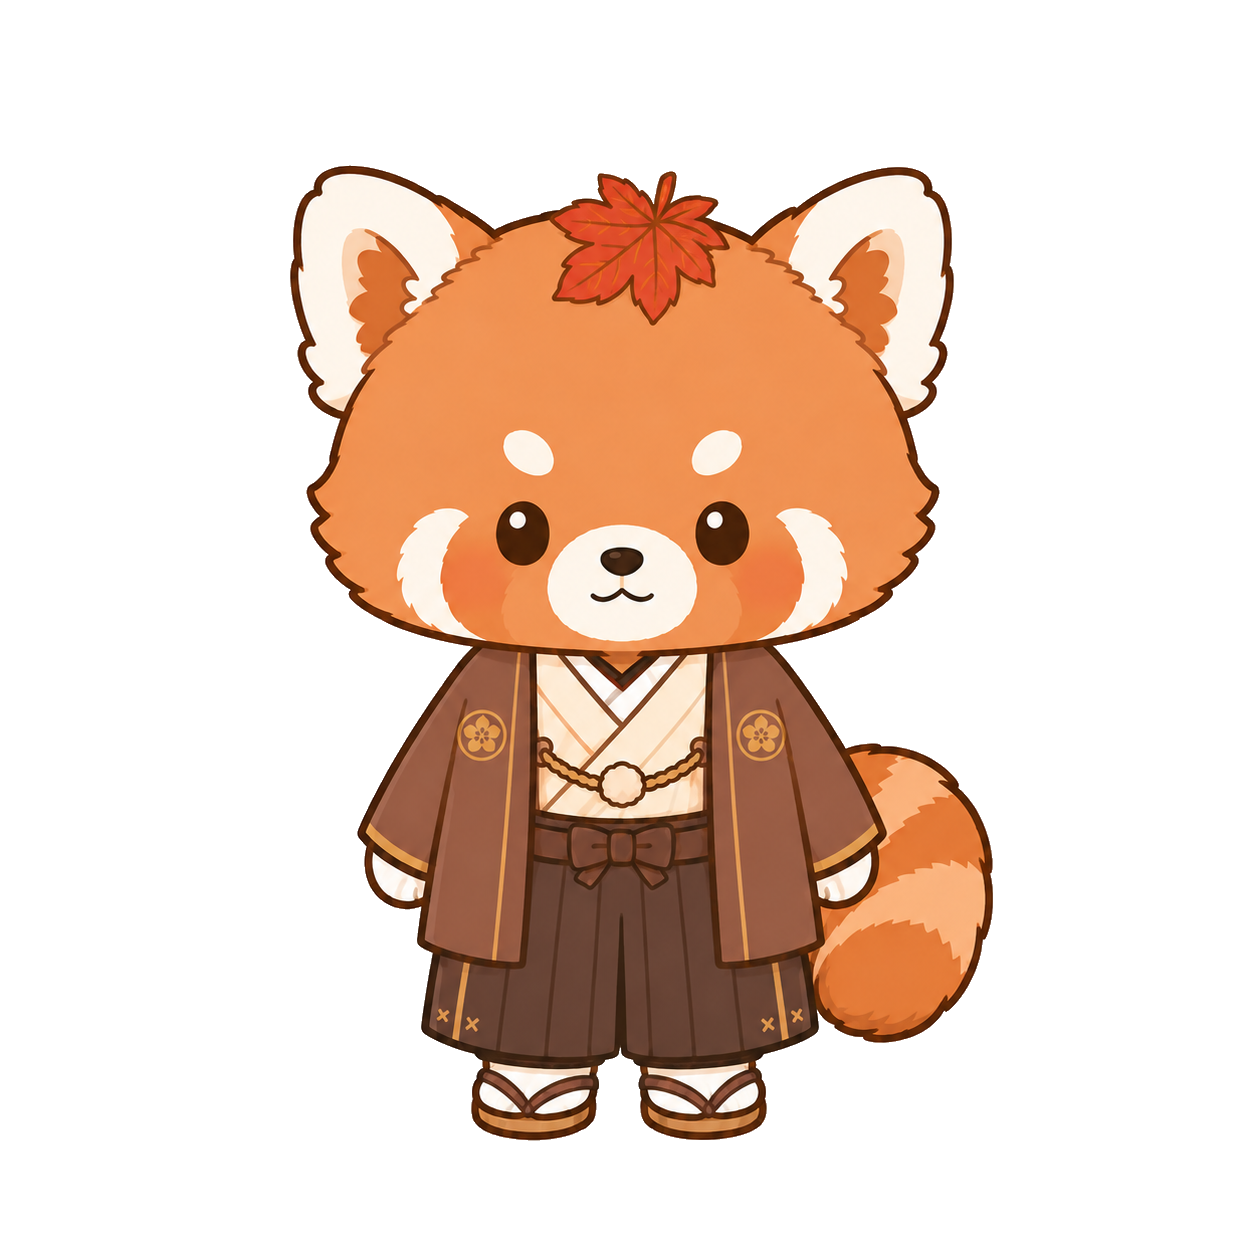
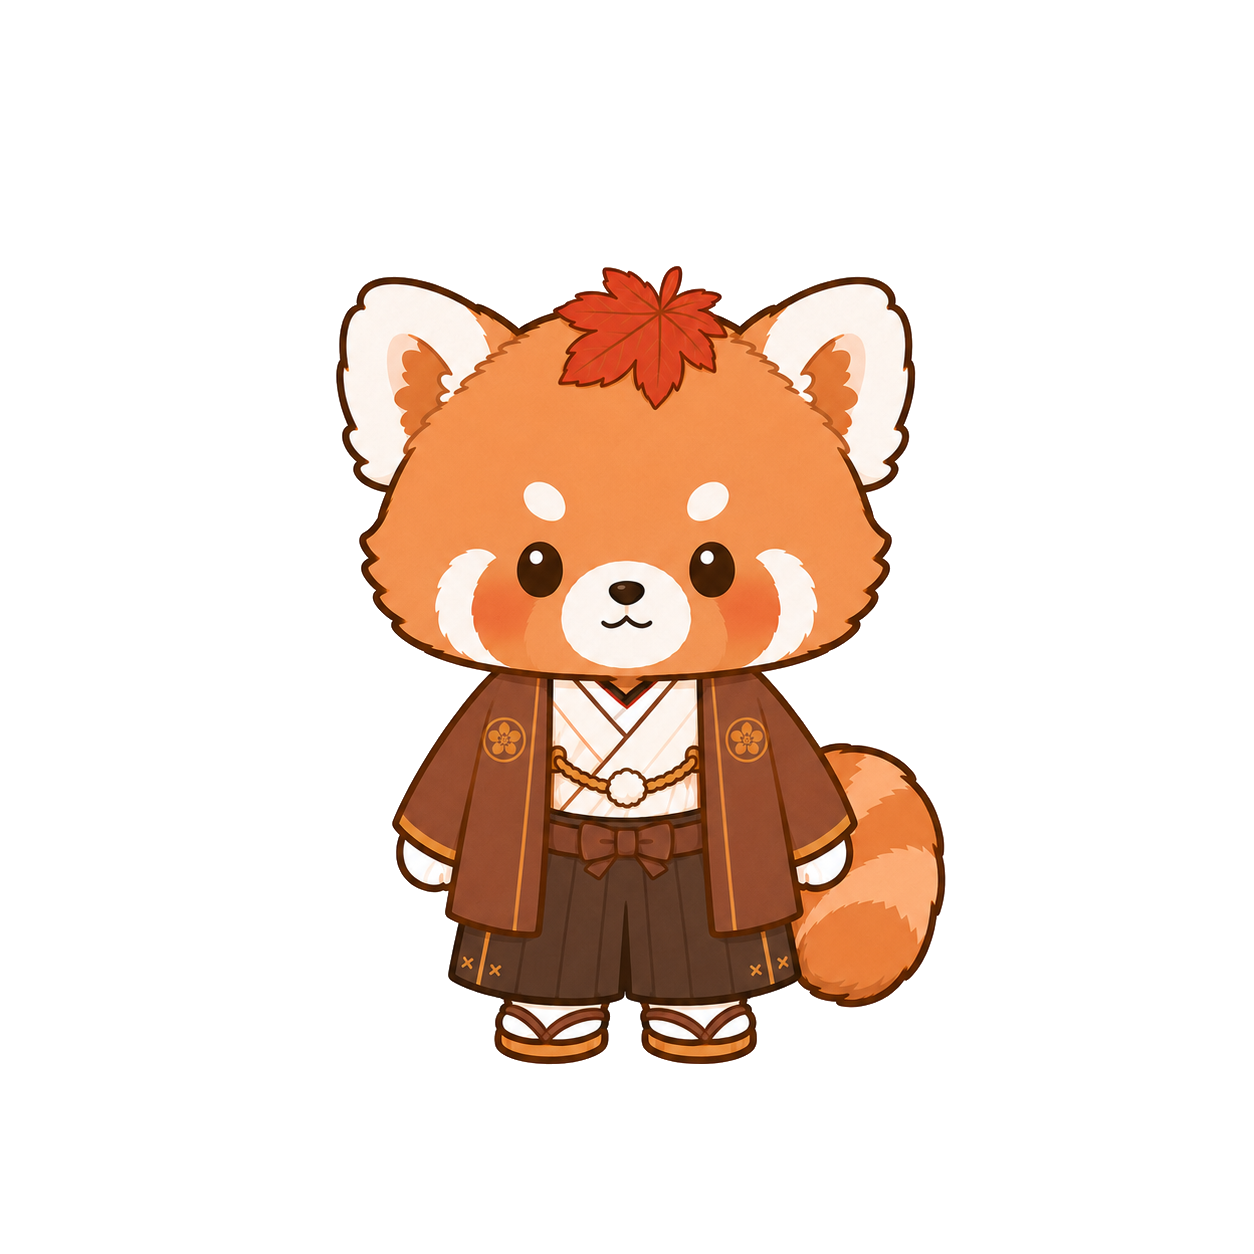
fix(cocoa): equalize Aki skin sizes in study room
Re-measure FIGURE_METRICS for Aki's refreshed classic/relax/demon art
(demon metrics were copied from classic, so the new demon rendered the
wrong size) and land the new art alongside the tuned baseline lift.
Each skin now renders at the same normalized height.

Changed region(s): [[0.2177, 0.1244, 0.8086, 0.933], [0.6531, 0.1244, 0.7464, 0.1555], [0.2488, 0.1244, 0.3421, 0.1555]]

diff --git a/src/constants/figure-calibration.ts b/src/constants/figure-calibration.ts
@@ -12,9 +12,9 @@ export const FIGURE_METRICS: Record<string, { fill: number; pad: number }> = {
   'companion_bunny/classic': { fill: 0.8939, pad: 0.0502 },
   'companion_bunny/jiraikei': { fill: 0.8190, pad: 0.0750 },
   'companion_bunny/palace': { fill: 0.9370, pad: 0.0407 },
-  'companion_cocoa/classic': { fill: 0.8238, pad: 0.0614 },
-  'companion_cocoa/demon': { fill: 0.8118, pad: 0.0758 },
-  'companion_cocoa/relax': { fill: 0.7783, pad: 0.0901 },
+  'companion_cocoa/classic': { fill: 0.8876, pad: 0.0598 },
+  'companion_cocoa/demon': { fill: 0.7919, pad: 0.0726 },
+  'companion_cocoa/relax': { fill: 0.6372, pad: 0.1507 },
   'companion_honey/champion': { fill: 0.8325, pad: 0.0845 },
   'companion_honey/classic': { fill: 0.9537, pad: 0.0255 },
   'companion_honey/zzz': { fill: 0.8644, pad: 0.0526 },

diff --git a/src/lib/figure-height.ts b/src/lib/figure-height.ts
@@ -23,7 +23,7 @@ export const HEIGHT_LADDER: Record<string, number> = {
 // on top of the shared baseline, for art whose visual mass sits low even with its
 // feet landed correctly (Aki's chef art hides too much behind the desk otherwise).
 export const BASELINE_LIFT: Record<string, number> = {
-  companion_cocoa: 0.015, // Aki — nudged down from 0.03 so she sits a touch lower in the study room
+  companion_cocoa: -0.04, // Aki — pushed BELOW the shared baseline so she sits just a touch higher than Bun (was too high vs the rest of the cast; tuned against scripts/render-height-chart.py + a Bun/Aki desk-line comparison)
 };
 
 // Bunny's classic art defines the baseline: every figure is scaled so its content
